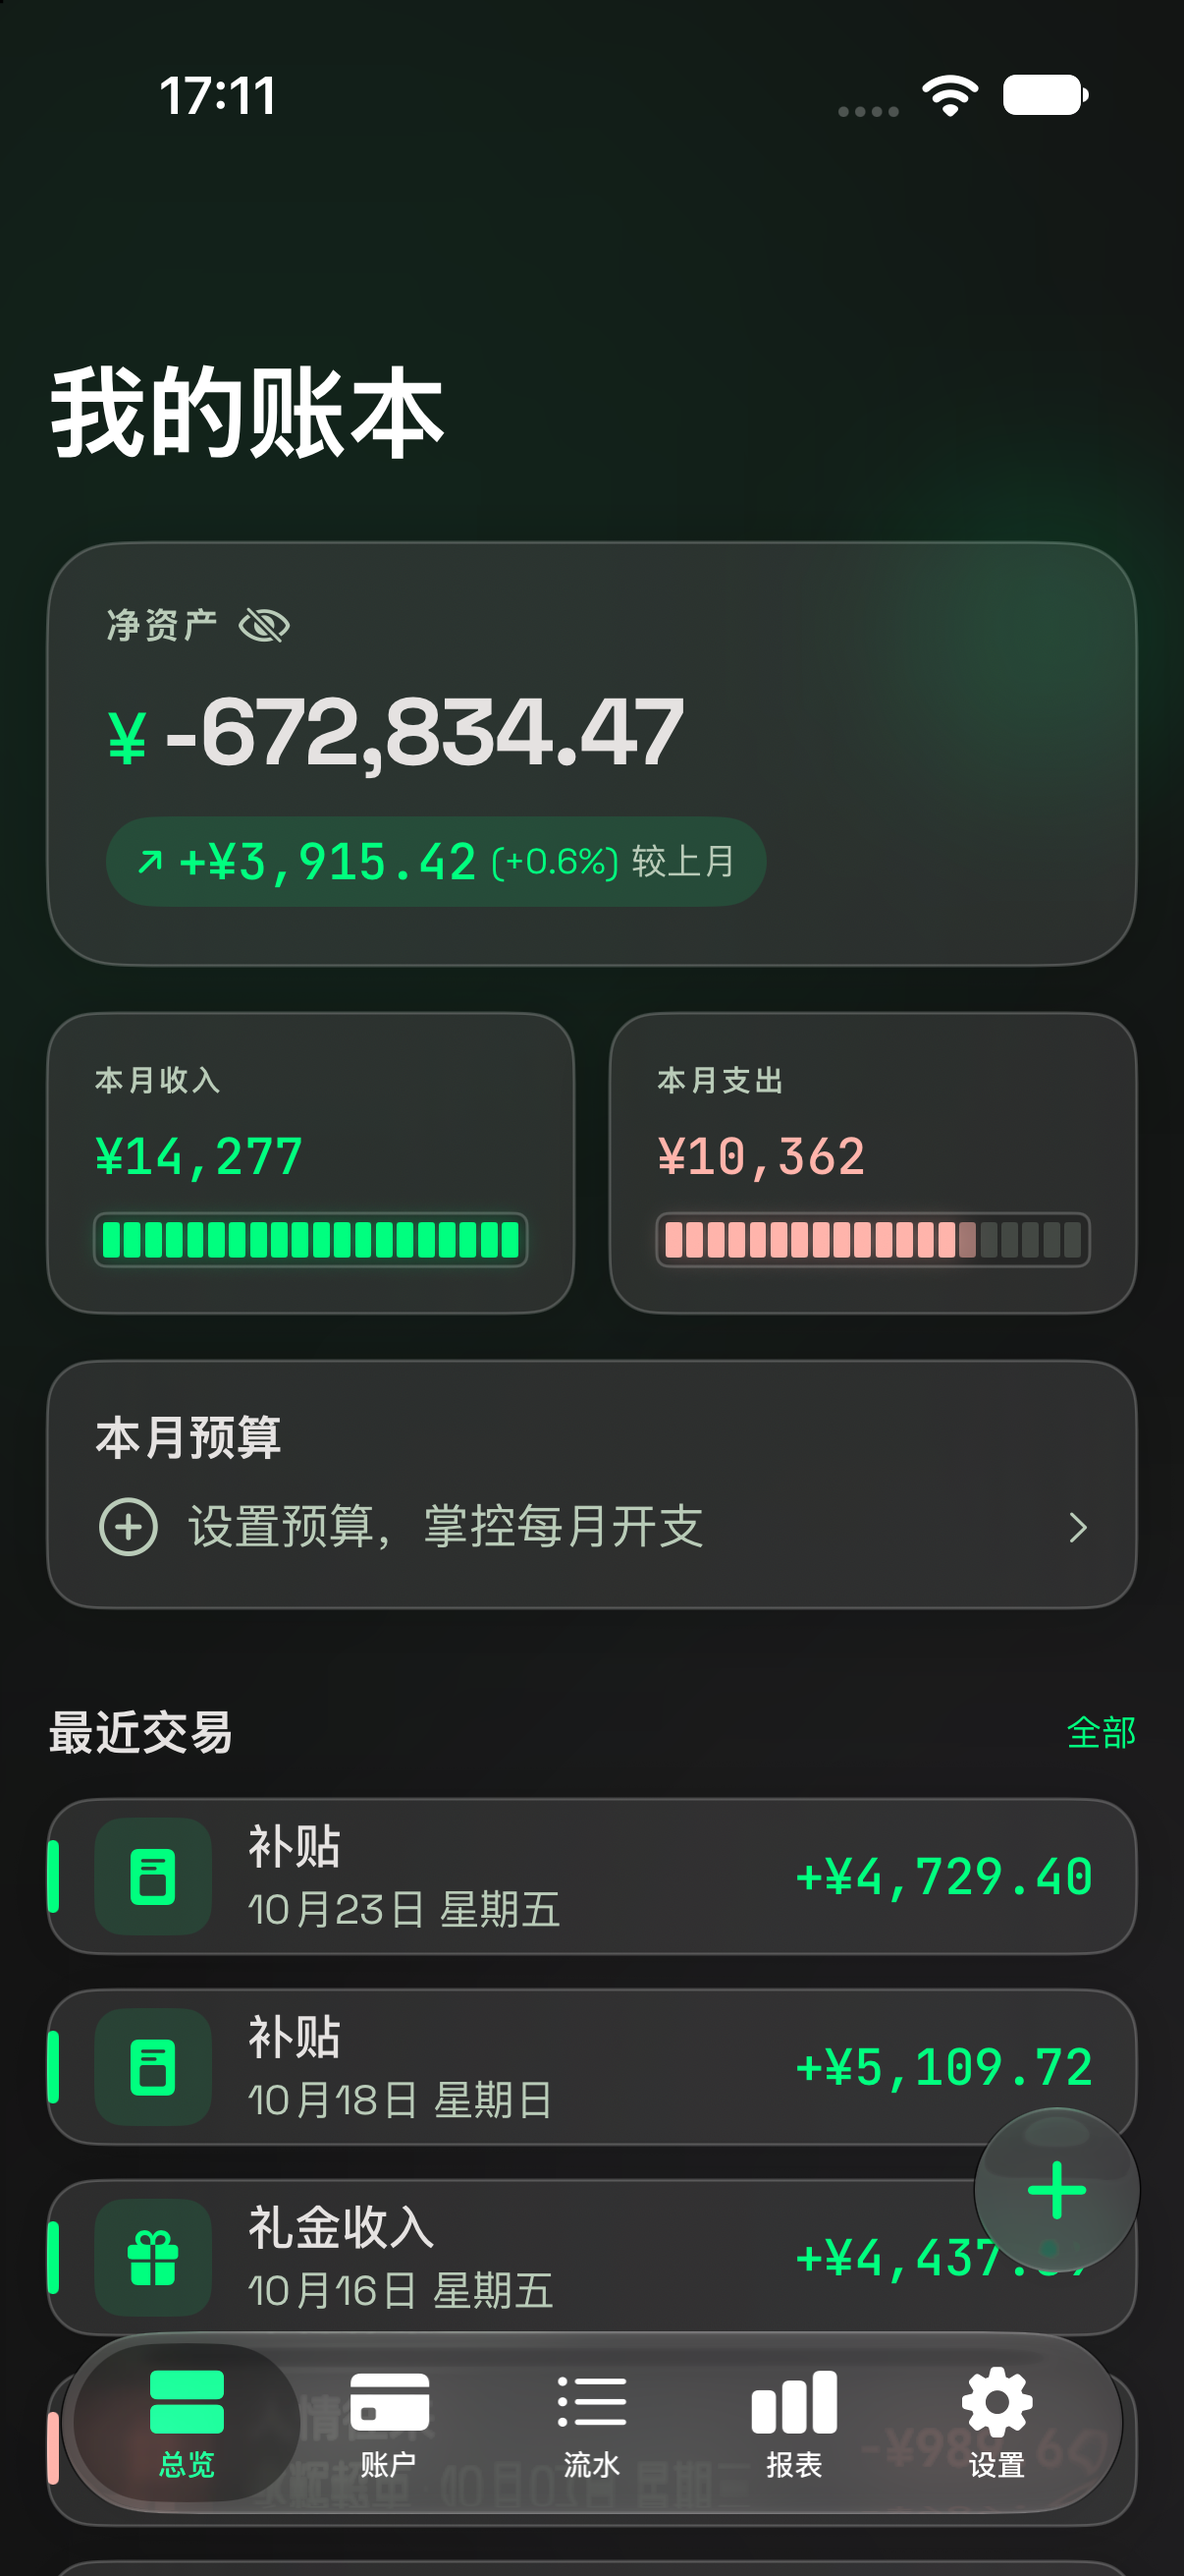
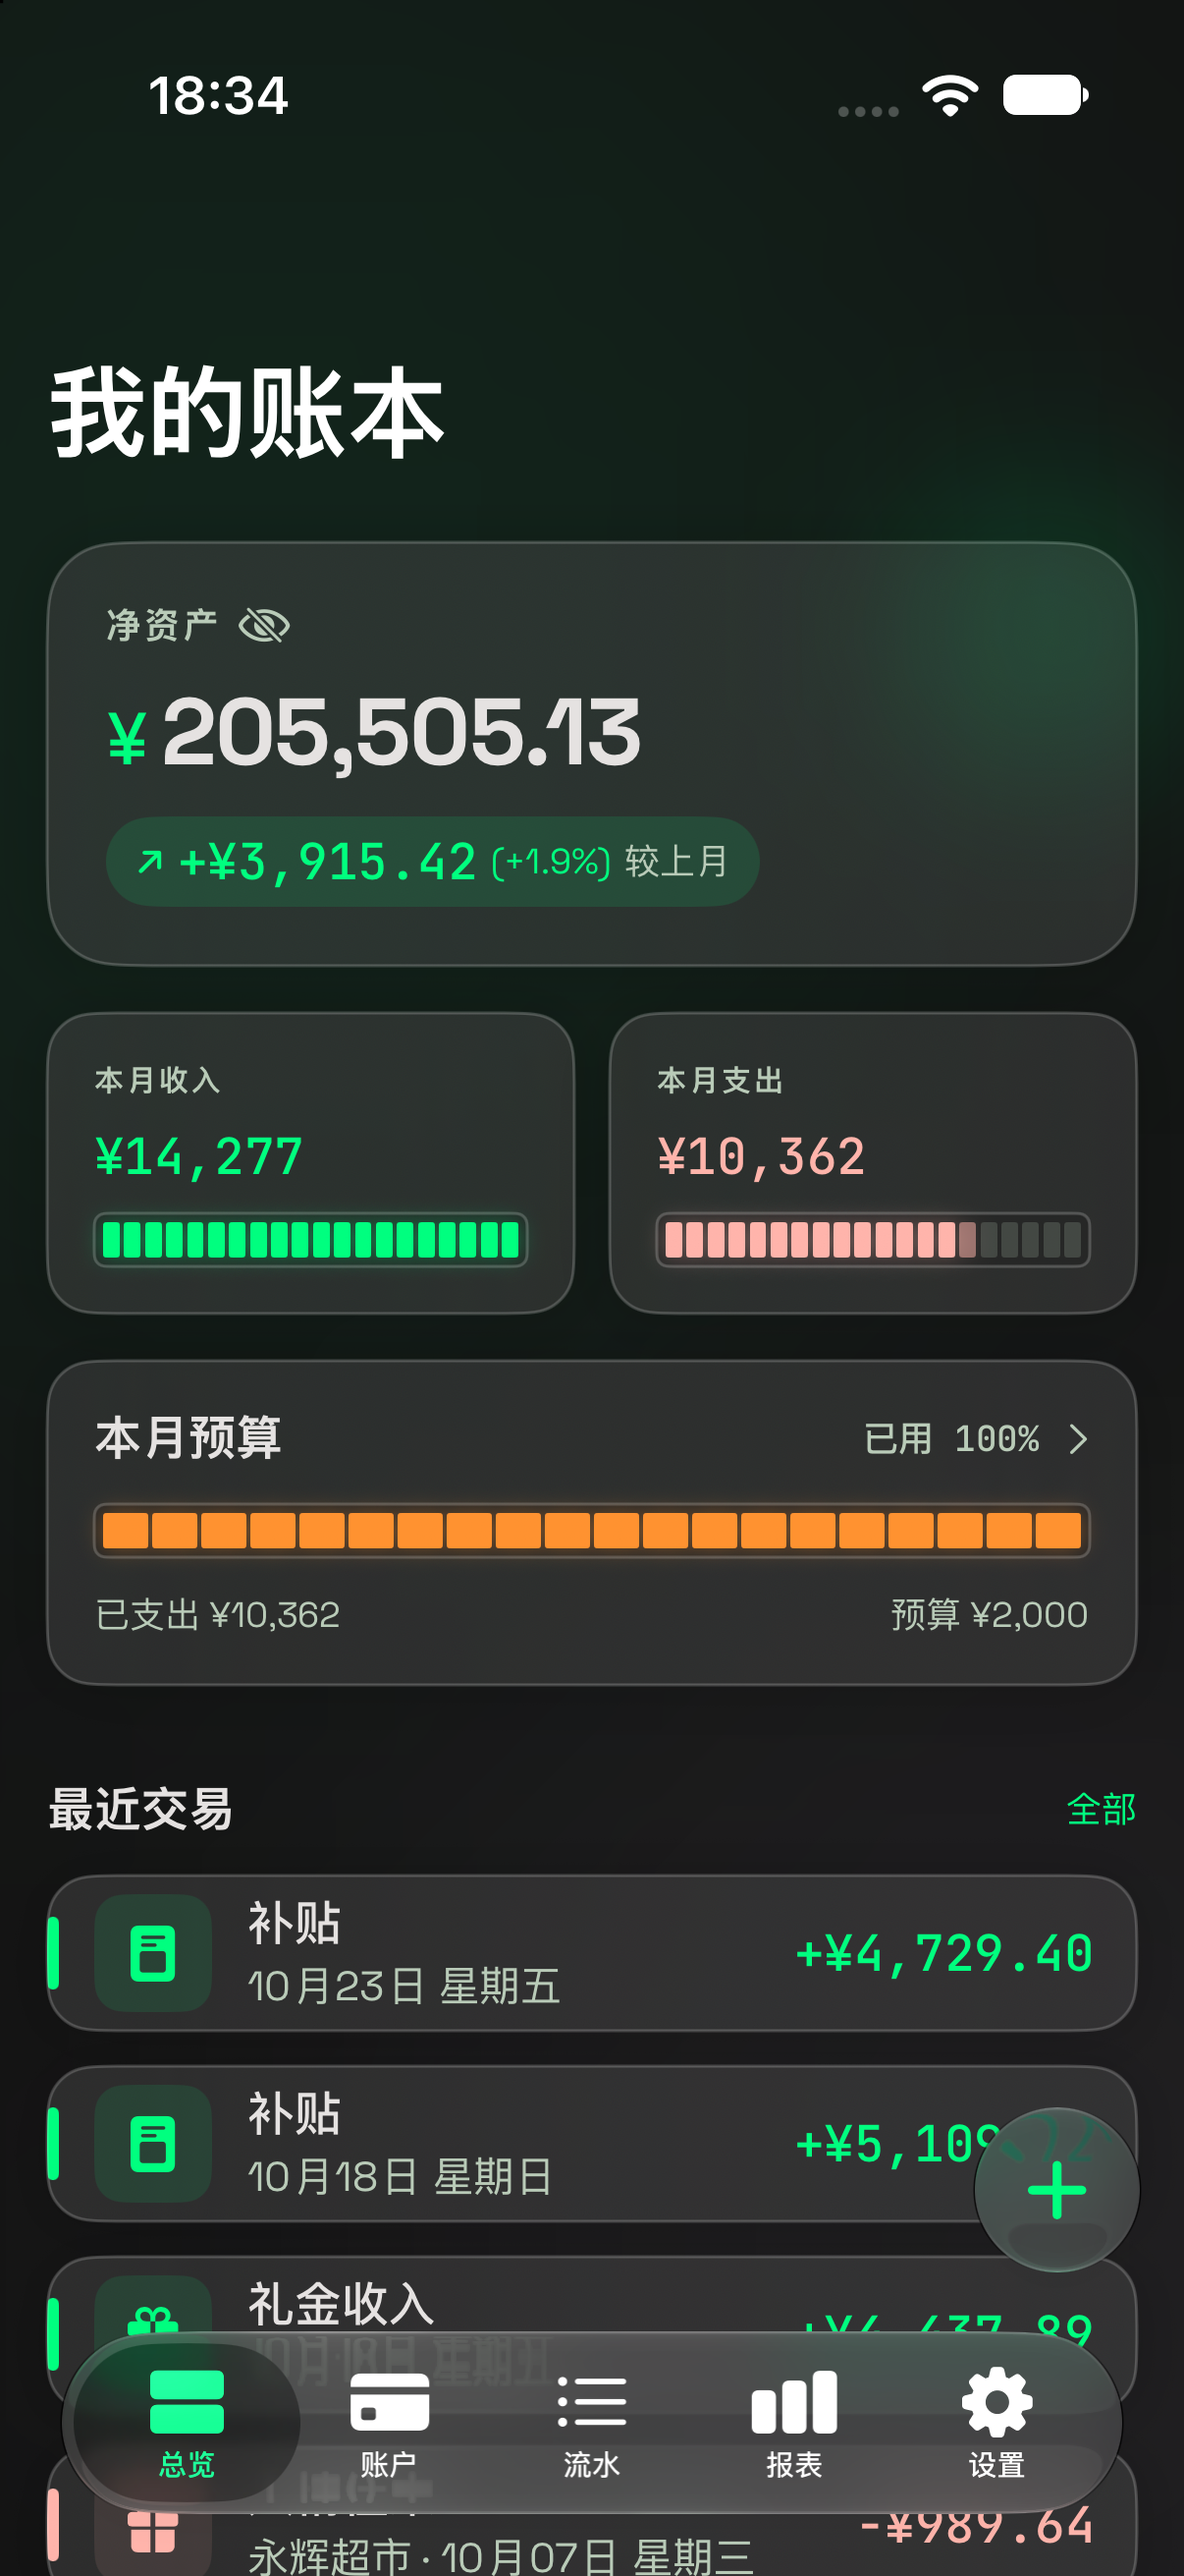
feat(appstore): 补拍报表/账户/预算截图，凑齐中英 × 深浅四套
原来报表只有一张深色中文图 `12-reports-dark.png`，账户页也只有一张深色中文图，
**英文版完全没有**。英文版做不出来是因为 String Catalog 缺 en，英文界面回落成中文
（那 286 条已在 64d2a9d 补齐）。

- 报表 3 种 × 4 = 12 张：分类占比（本月）、收支趋势（近1年）、多维分析（本月·商家维度），
  一律默认周期、L1 不下钻。旧的 `12-reports-dark.png` 由 `12-reports-cat-dark.png` 取代
- 账户列表 3 张、预算管理 4 张补进仓库（预算那 4 张原先只躺在 /tmp，会被清掉）
- 总览页 3 张是上一轮净资产整治的产物，一并入库
- 累计新增 22 个 PNG；`15-dashboard-light.png` 删除（已被 `10-dashboard-light.png` 取代）

**英文版的关键不在控件，在演示数据。** catalog 只管控件文案，管不到账本/账户/成员/
商户/项目名。本次改了 7 账户 + 3 成员 + 1 项目 + 1 账本 + 1 预算本 + 48 商户。
分类名是**例外中的例外**：报表模块用裸 `Text(item.name)` 渲染
（`CategoryPieChartView.swift:279`、`MemberPieChartView.swift:112`、
`MemberCategoryCrossView.swift:82`），不走 `LocalizedStringKey`，所以即使 catalog 里
有「餐饮饮食 → Food & Dining」也不生效——必须连 94 条分类数据一起改。全应用其它
20 多处（账户行、导航标题、各种选择器）都是 `LocalizedStringKey(name)`，只有报表是例外。

48 个商户靠 UI 手点不现实，改数据走 sqlite：先整目录备份 store 三件套，改完原样拷回。
改前 terminate app，改后 `PRAGMA wal_checkpoint(TRUNCATE)`。

16 张报表/账户图逐张 Read 核对过：1206×2622、主题对、语言对、无下钻、无弹窗/键盘/菊花；
英文版无中文残留（含 48 个商户名）。

README 补了这次新踩的坑和 4 个已知缺陷：`simctl io screenshot` 写已存在的文件会失败，
而 `sips` 仍报**旧文件**那正确的 1206×2622，极易误判成功——必须先 `rm`。

未跑 iOS/macOS 构建与单测：本次只增删图片、改文档，未触及 app 代码。

已记入 README、本次未修的显示缺陷：
- 英文「收支趋势」月份轴显示 `26Oct`，且比中文版少了年份分组条——`ReportViewModel.swift:818`
  把 year+month 直接拼接，中文靠「年」字拆出年份，英文拼出来没有「年」
- 报表图例/列表用裸 `Text(name)`（同上），用户自建分类同样中招
- Mac「资产变化」x 轴硬编码 `%02d年%d月`（`ReportViewModel.swift:904`），违反日期格式规范
- 账户表单 `Section("Logo")` 在中文界面显示英文，且与同功能的「选择Logo」不一致

diff --git a/tools/appstore-assets/screenshots/README.md b/tools/appstore-assets/screenshots/README.md
@@ -25,19 +25,41 @@
 
 | 文件 | 内容 |
 |---|---|
-| `10-dashboard-dark.png` | 总览页，深色 |
-| `15-dashboard-light.png` | 总览页，浅色 |
-| `12-reports-dark.png` | 报表，深色 |
-| `13-accounts-dark.png` | 账户列表，深色 |
+| `10-dashboard-{dark,light}{,-en}.png` | 总览页，4 张 |
+| `12-reports-cat-{dark,light}{,-en}.png` | 报表·分类占比（周期「本月」，L1 不下钻），4 张 |
+| `12-reports-trend-{dark,light}{,-en}.png` | 报表·收支趋势（周期「近1年」），4 张 |
+| `12-reports-dim-{dark,light}{,-en}.png` | 报表·多维分析（「本月」+ 商家维度，L1 不下钻），4 张 |
+| `13-accounts-{dark,light}{,-en}.png` | 账户列表，4 张 |
 | `16-transactions-light.png` | 流水列表，浅色（与 `11-transactions-light.png` 同屏，冗余） |
+| `17-budget-{dark,light}{,-en}.png` | 设置 → 账本设置 → 预算管理，4 张 |
 
 留着做 App Store **截图**素材时会用到。
 
-> **为什么主屏不用总览页。** `DummyDataSeeder` 生成的三年数据支出远大于收入，
-> 总览页顶部那个大字是**净资产**，实测为 **-¥672,834.47**——放在对外素材上很难看。
-> 另外 seeder 不建预算，总览页的「本月预算」卡片一直是空态，同样不适合上素材。
-> 相比之下「记一笔」一眼就说清这是**手动录入**的记账工具，更对本 App 的定位。
-> 若将来要用总览页当主屏，**先把演示数据调成净资产为正、并建一个预算**。
+> **报表与账户那 16 张是 2026-10-07 拍的**，旧的单张 `12-reports-dark.png` 已删除
+> （它被 `12-reports-cat-dark.png` 取代）。
+> **预算那 4 张也是 2026-10-07 补的**——之前只有英文版被重拍过（旧英文版标题还是中文
+> 「预算管理」，因为当时 String Catalog 缺 `en`），中文那对是原先拍的、一直没入库。
+>
+> 报表拍的是**默认周期**：分类占比/多维分析=`本月`，收支趋势=`近1年`。本月数据够满
+> （¥10,362、7 个分类），不必改成`本年`。多维分析有下钻，**只拍 L1**。
+
+> **总览页那 4 张是 2026-10-07 重拍的。** 重拍前净资产是 **-¥672,834.47**，
+> 大字放对外素材上很难看；现在调成了 **+¥205,505.13**。
+> **调的是账户初始余额，不是交易**——`AccountServiceImpl` 里
+> `余额 = initialBalance + Σ交易`，所以 5950 笔交易一笔没动，
+> `11-transactions` / `14-addtx` 那几张**不受影响**，不必因净资产重拍。
+> 只有账户页因为余额变了要跟着重拍（已重拍）。
+>
+> （报表那几张后来确实重拍了，但**与净资产无关**——是因为原来只有中文版，
+> 英文版是新补的。）
+>
+> 净资产现在是正的了，**总览页其实已经够格当 banner 主屏**。当前仍用「记一笔」是因为
+> 它一眼说清这是**手动录入**的记账工具，更对本 App 的定位——这是选型偏好，不是限制。
+>
+> ⚠ **重拍总览时会踩的坑**：净资产**默认是打码的**（`showNetWorth` 默认 false，
+> 显示成圆点），冷启动后必须点一下眼睛图标、并**等完 2–4 秒的逐位揭示动画**才能拍，
+> 否则拍到的是一排点。另外英文布局下 `Net Worth` 比 `净资产` 宽，眼睛按钮的 x 坐标
+> 会从约 89.8 移到约 125.8——按旧坐标点会误触卡片的「展开明细」开关。
 
 ## 怎么拍
 
@@ -101,7 +123,13 @@ xcrun simctl io <UUID> screenshot tools/appstore-assets/screenshots/14-addtx-dar
 `simctl io screenshot` 出的是**屏幕原始缓冲**（1206×2622），矩形、无圆角——圆角由 `make_banner.swift`
 的 `PhoneFrame` 补。**不要自己先裁圆角**，也不要改用 MCP 的截图工具（那是缩略图，尺寸不对）。
 
-拍完用 `sips -g pixelWidth -g pixelHeight <文件>` 核对必须是 1206×2622。
+⚠ **目标是已存在的文件时，`simctl io screenshot` 会失败**：
+`You don't have permission to save the file … Operation not permitted`。
+**而且 `sips` 仍然会报出旧文件那正确的 1206×2622——很容易误判成功。**
+→ **每次截图前先 `rm -f <目标文件>`**，再核尺寸。
+
+拍完用 `sips -g pixelWidth -g pixelHeight <文件>` 核对必须是 1206×2622，
+并**用 Read 工具把图逐张看一遍**（尺寸对不代表内容对）。
 
 ## `-en` 那套截图还要求演示数据是英文的
 
@@ -109,21 +137,76 @@ xcrun simctl io <UUID> screenshot tools/appstore-assets/screenshots/14-addtx-dar
 控件全英文、但商户名列着「永辉超市 / 山姆会员商店」、账户名叫「支付宝 / 微信零钱 / 中国移动」——
 一眼假，且违反「素材按语言分别出图」的要求。
 
-拍 `-en` 前先把这几个演示数据改名（账户在**设置 → 账本设置 → 账户**，商户在**设置 → 账本设置 → 商户**）：
+拍 `-en` 前必须把演示数据也改成英文。**注意：`String Catalog` 只管控件文案，
+碰不到数据。**
 
-| 中文原名 | 英文改名后 |
-|---|---|
-| 支付宝 | Alipay |
-| 微信零钱 | WeChat Balance |
-| 永辉超市 | Yonghui Mart |
-| 山姆会员商店 | Sam's Club |
-| 中国移动 | China Mobile |
+### 哪些控件名会自动变英文，哪些不会
+
+- **会**：账户类型分组头（`现金/借记卡/信用卡/电子钱包`）、报表名、周期名、维度名——
+  这些是 catalog 条目，切语言即变。
+- **不会**：账本名、账户名、成员名、商户名、项目名、**分类名**。全是用户数据。
+
+⚠ **分类名有个例外中的例外**：报表模块用裸 `Text(item.name)` 渲染名字
+（`CategoryPieChartView.swift:279`、`MemberPieChartView.swift:112`、
+`MemberCategoryCrossView.swift:82`），**不走 `LocalizedStringKey`**，所以查不到 catalog，
+即使 catalog 里有「餐饮饮食 → Food & Dining」也没用。全应用其它 20 多处
+（账户行、导航标题、各种选择器）都是 `Text(LocalizedStringKey(name))`，只有报表模块是例外。
+→ **拍英文报表图必须先改分类数据**，否则图例和列表里是中文分类名。
+
+### 改名映射（照抄，别现编）
+
+账户 7 个：信用卡→`Credit Card`｜现金→`Cash`｜微信支付→`WeChat Pay`｜工资卡→`Salary Card`｜
+招商银行储蓄卡→`CMB Debit Card`｜支付宝→`Alipay`｜微信零钱→`WeChat Balance`
+
+成员：配偶→`Spouse`｜自己→`Me`｜孩子→`Child`
+项目：日常→`Daily`
+账本：我的账本→`My Ledger`｜预算本：家庭月度预算→`Household Monthly`
+
+商户 48 个（**多维分析·商家维度每个约 120 笔，48 个全露**）：
+携程旅行→Trip.com｜美团→Meituan｜铁路 12306→China Railway 12306｜京东物流→JD Logistics｜
+滴滴出行→DiDi｜极兔速递→J&T Express｜居然之家→Easyhome｜韵达快递→Yunda Express｜
+苏宁易购→Suning｜大润发→RT-Mart｜物美→Wumart｜饿了么→Ele.me｜永辉超市→Yonghui Mart｜
+屈臣氏→Watsons｜飞猪旅行→Fliggy｜闲鱼→Xianyu｜盒马鲜生→Freshippo｜得物→Poizon｜
+拼多多→Pinduoduo｜全友家居→QuanU Home｜开市客→Costco｜安居客→Anjuke｜大众点评→Dianping｜
+山姆会员商店→Sam's Club｜华润万家→CR Vanguard｜菜鸟网络→Cainiao｜网易严选→NetEase Yanxuan｜
+唯品会→Vipshop｜中国电信→China Telecom｜阿里巴巴 1688→Alibaba 1688｜红星美凯龙→Red Star Macalline｜
+哈啰出行→HelloRide｜淘宝 / 天猫→Taobao / Tmall｜中国移动→China Mobile｜贝壳找房→Beike｜
+小红书→Xiaohongshu｜圆通速递→YTO Express｜顺丰速运→SF Express｜去哪儿→Qunar｜
+沃尔玛→Walmart｜联华超市→Lianhua Supermarket｜中国联通→China Unicom｜申通快递→STO Express｜
+京东→JD.com｜德邦快递→Deppon Express｜中国广电→China Broadnet｜中通快递→ZTO Express｜
+中国邮政 EMS→China Post EMS
+
+**分类**（1 个顶层 + 若干子类，共 94 条）：**直接查 `Localizable.xcstrings` 取官方英文名**
+（`餐饮饮食→Food & Dining`、`交通出行→Transportation`、`购物消费→Shopping` 等），
+不要自己翻。只有 catalog 里没有的才现取——已知 2 条：`数码产品→Digital Products`、
+`停车车位→Parking`。
+
+### 怎么改
+
+48 个商户靠 UI 手点不现实。**直接改 sqlite**：先把
+`<容器>/Library/Application Support/FirstCC.sqlite{,-wal,-shm}` 三件套整目录备份，改完
+**原样拷回**还原（比逐条改回去可靠）。改之前必须
+`xcrun simctl terminate <UUID> com.qianey.app`（CoreData 开着会覆盖你的写入），
+改完 `PRAGMA wal_checkpoint(TRUNCATE);` 再 launch。
+装过一次 app 后**容器 UUID 会变**，路径每次重新 `get_app_container` 取，别缓存。
 
 中文界面用的是 app 级语言（`AppleLanguages`），**与这些数据名无关**，
 所以中文那套截图不受影响，不必重拍；改完名直接回改回中文即可。
 
 > 判断 `-en` 截图干不干净：看**流水列表**里「商户名」和**记一笔**里「账户名」这两处，
 > 它们是最容易漏的中文。只翻控件、不翻数据是常见错误。
+
+## 这批截图里已知的显示缺陷（是 app 的 bug，不是拍错）
+
+拍照时如果发现下面这些，**不要以为是拍错了、也不要自行修图**——它们是 app 当前的真实行为，
+图是如实反映。修要改 Swift 代码。
+
+| 现象 | 根因 | 影响面 |
+|---|---|---|
+| 英文「收支趋势」月份轴显示 `26Oct / 26Aug / …`，且**比中文版少了年份分组条** | `ReportViewModel.swift:818` 把 `year(.twoDigits)\(month(.abbreviated))` 直接拼接。中文下 `year` 出「25年」，拼成 `25年10月`，`parseYearMonth`（`:1909`）靠找「年」字拆出年份；英文下出 `26Oct`，**没有「年」字**，拆分失败 → 整串当月标签显示，年份分组随之消失 | 英文界面 |
+| 英文报表图例/列表出现中文分类名 | 报表模块用裸 `Text(item.name)`，不走 `LocalizedStringKey`（见上）。截图里是英文，是因为**演示数据被改成了英文**，不是因为控件翻译生效 | 英文界面；用户自建分类同样中招 |
+| Mac「资产变化」报表的 x 轴标签 | `ReportViewModel.swift:904` 硬编码 `String(format: "%02d年%d月", …)`，违反 CLAUDE.md 的日期格式规范（应用 `Date.FormatStyle` 随 locale 自适应） | Mac 英文界面 |
+| 账户新增/编辑表单里出现英文 `Logo` | `Section("Logo")`（`AccountsManagementView.swift:207`、`AddEditAccountView.swift:98`）——key 本身是英文，中文侧没有值 | 中文界面 |
 
 ## 隐私提醒
 
